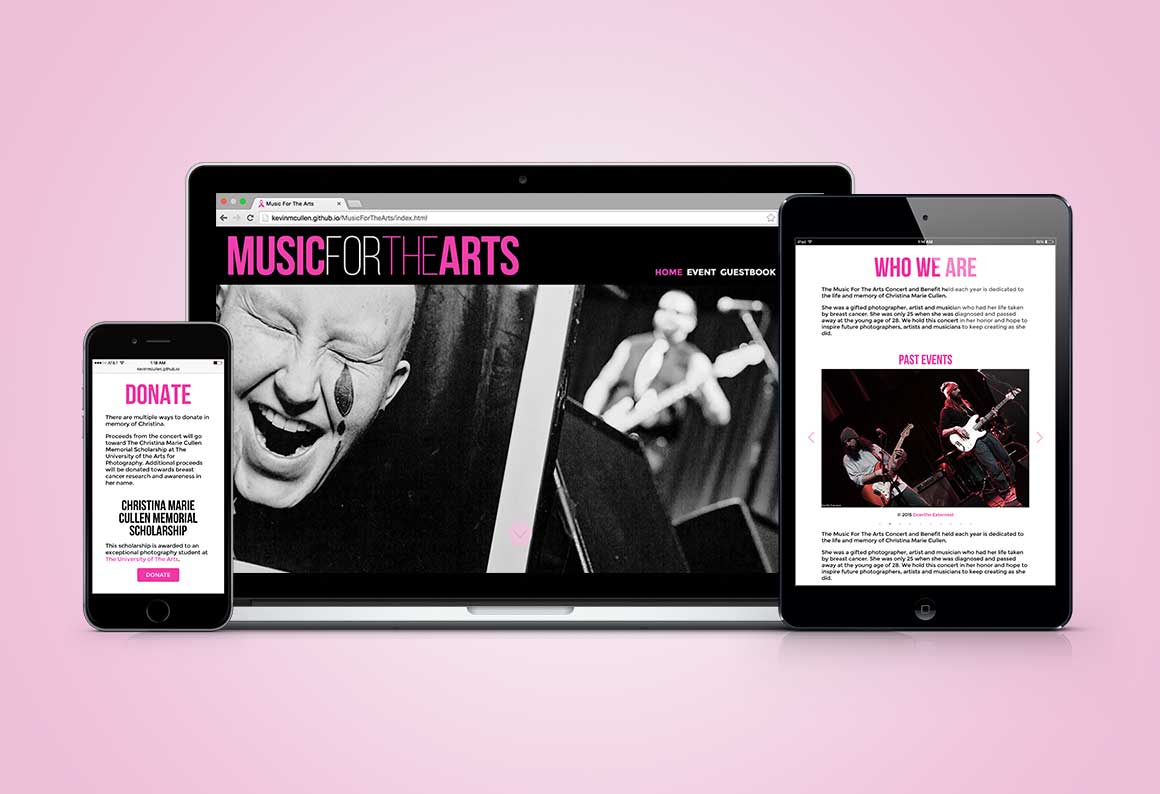
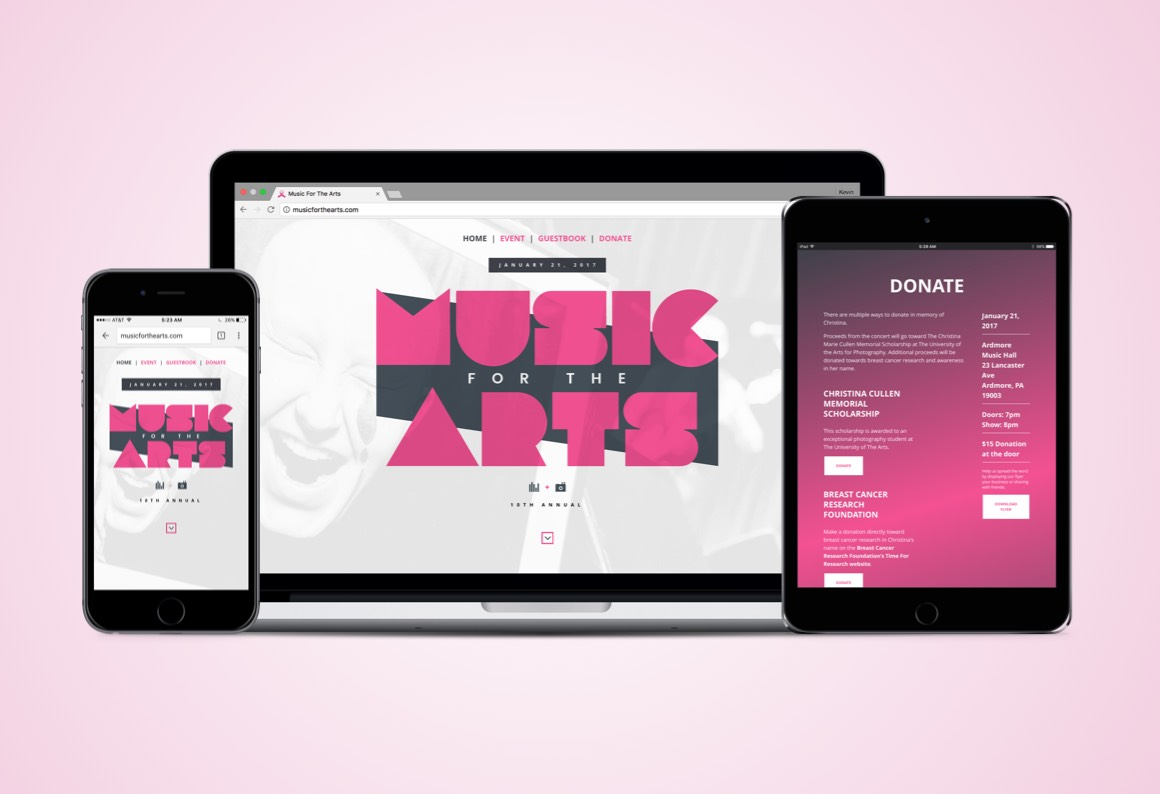
Updates

diff --git a/web.html b/web.html
@@ -48,25 +48,25 @@
         <div class="main-content">
           <div class="work webDesign">
             <div class="webHero MFTA-bg">
-              <a href="http://musicforthearts.com"><img src="images/web/MFTAmockup-2.png"></a>
+              <a href="http://musicforthearts.com"><img src="images/web/mockup_Macbook_MFTA.png"></a>
             </div>
             <section class="container project intro">          
-              <a href="http://musicforthearts.com" target="_blank"><h4>Music For The Arts</h4></a>
+              <a href="http://musicforthearts.com" target="_blank"><h4>Music For The Arts 2017</h4></a>
               <p><a href="http://musicforthearts.com" target="_blank">Music For The Arts</a> is an annual charity event in Philadelphia that raises money for a photography scholarship at The Universiy for the Arts and also benefits breast vancer research through its proceeds.</p>
             </section>
             <section class="container project brief">
               <h5>PROJECT BRIEF</h5>          
-              <p>I was tasked to redesign the website to better showcase the event, including the work of photographers, musicians and artists, and to complete all of the front-end development. The site is fully responsive and provides a modern showcase for musicians and artists, as intended by the event's founder.</p>
+              <p>I updated and re-launch a new version of the website for the 2017 event with the specific goal of making it easier for people to find the relevant information for the event, as well as improve the process making donations. I was wanted to make the site a bit more engaging and lively this year given it's 10th anniversary and its overall mission — sharing and expanding the work of artists.</p>
             </section>
             <section class="container project second">
               <div class="row">
                 <div class="four columns">
                   <label>Mobile-first, responsive design</label>
                   <h6>Music For The Arts is fully responsive on any device</h6>
-                  <p>The website was built using HTML, CSS and Javascript &mdash; including jQuery.  I was responsible for all design and development.</p>
+                  <p>The website was built using HTML, CSS, Sass and Javascript &mdash; including jQuery.  I was responsible for all design and development.</p>
                 </div>
                 <div class="eight columns">
-                  <img src="images/web/brief-MFTAiPhoneMockup.png">
+                  <img src="images/web/mockup_iPad+iPhone_MFTA.png">
                 </div>
               </div>
             </section>
@@ -120,6 +120,30 @@
               <label>Dallas Morning News Interactive</label>
               <a href="http://interactives.dallasnews.com/2015/jenna-owens/" target="_blank"><h4>Jenna Owens Q&amp;A</h4></a>
               <p>Jenna Owens is a rising star and co-host of The Kidd Kraddick Show. I designed and built an interactive for The Dallas Morning News's new feature Q&amp;AP, showcasing a brilliant photoshoot and Q&amp;A that received over 17,000 views in 2 days.</p>
+            </section>
+            
+            <div class="webHero MFTA-bg">
+              <img src="images/web/MFTAmockup-2.png">
+            </div>
+            <section class="container project intro">          
+              <h4>Music For The Arts 2016</h4>
+              <p>Music For The Arts is an annual charity event in Philadelphia that raises money for a photography scholarship at The Universiy for the Arts and also benefits breast vancer research through its proceeds.</p>
+            </section>
+            <section class="container project brief">
+              <h5>PROJECT BRIEF</h5>          
+              <p>I was tasked to redesign the website to better showcase the event, including the work of photographers, musicians and artists, and to complete all of the front-end development. The site is fully responsive and provides a modern showcase for musicians and artists, as intended by the event's founder.</p>
+            </section>
+            <section class="container project second">
+              <div class="row">
+                <div class="four columns">
+                  <label>Mobile-first, responsive design</label>
+                  <h6>Music For The Arts is fully responsive on any device</h6>
+                  <p>The website was built using HTML, CSS and Javascript &mdash; including jQuery.  I was responsible for all design and development.</p>
+                </div>
+                <div class="eight columns">
+                  <img src="images/web/brief-MFTAiPhoneMockup.png">
+                </div>
+              </div>
             </section>
             
 

diff --git a/promo.html b/promo.html
@@ -49,41 +49,40 @@
           <div class="work">
             <div class="container">
               <div class="row">
-                <div class="six columns animated fadeInLeftBig" >
+                <div class="four columns animated fadeInLeftBig" >
                   <a  href="images/promo/thetable1.jpg" class="work-image">      
                   <img src="images/promo/thetable1.jpg"logo.jpg"">
                   <p>Special event flyer for The Table in San Jose, Calif.</p>
                   </a>                                                  
                 </div>   
-                <div class="six columns animated fadeInLeftBig" >
+                <div class="four columns animated fadeInLeftBig" >
                   <a  href="images/promo/thetable2.jpg" class="work-image">      
                   <img src="images/promo/thetable2.jpg"logo.jpg"">
                   <p>Special event flyer for The Table in San Jose, Calif.</p>
                   </a>                                                  
-                </div>                 
-              </div>
-              <div class="row">
-              <div class="six columns animated fadeInLeftBig" >
+                </div>
+                <div class="four columns animated fadeInLeftBig" >
                   <a  href="images/promo/thetable3.jpg" class="work-image">      
                   <img src="images/promo/thetable3.jpg"logo.jpg"">
                   <p>Special event flyer for The Table in San Jose, Calif.</p>
                   </a>                                                  
-                </div>     
-                <div class="six columns animated fadeInRightBig">
+                </div>   
+              </div>
+              <div class="row">
+                
+                <div class="four columns animated fadeInRightBig">
                   <a  href="images/promo/thetable4.jpg" class="work-image">       
                   <img src="images/promo/thetable4.jpg">
                   <p>Flyer announcing new brunch hours at The Table in San Jose, Calif.</p>
                   </a>                                                  
                 </div>
-              </div>
-              <div class="row">
-                <div class="six columns animated fadeInLeftBig" >
+                <div class="four columns animated fadeInLeftBig" >
                   <a  href="images/promo/thetable5.jpg" class="work-image">      
                   <img src="images/promo/thetable5.jpg"logo.jpg"">
                   <p>T-shirt design for a reunion event at Texas Tech University</p>
                   </a>                                                  
                 </div>     
-                <div class="six columns animated fadeInRightBig">
+                <div class="four columns animated fadeInRightBig">
                   <a  href="images/promo/techshirt.png" class="work-image">       
                   <img src="images/promo/techshirt.png">
                   <p>T-shirt design for a reunion event at Texas Tech University</p>
@@ -91,13 +90,13 @@
                 </div>
               </div>
               <div class="row">
-                <div class="six columns animated fadeInLeftBig">
+                <div class="four columns animated fadeInLeftBig">
                   <a  href="images/promo/ALT1.jpg" class="work-image">       
                   <img src="images/promo/ALT1.jpg">
                   <p>Promotional flyer for ALT Recovery Group in Las Cruces, N.M.</p>
                   </a>                                                  
                 </div>
-                <div class="six columns animated fadeInRightBig">
+                <div class="four columns animated fadeInRightBig">
                   <a  href="images/promo/CollegeBaseballHOF.jpg" class="work-image">       
                   <img src="images/promo/CollegeBaseballHOF.jpg">
                   <p>Cover design for the 2015 National College Baseball Hall of Fame Night of Champions yearbook.</p>

diff --git a/logo.html b/logo.html
@@ -55,14 +55,14 @@
                                 <p>Logo design for a podcast</p>
                             </a>                                                  
                         </div>
-                        <!--
+                        
                         <div class="six columns animated fadeInRightBig">
-                            <a  href="" class="work-image">       
-                                <img src="">
-                                <p></p>
+                            <a  href="images/logos/skinnylogo.jpg" class="work-image">       
+                                <img src="images/logos/skinnylogo.jpg">
+                                <p>Logo design for a weight loss blog</p>
                             </a>                                                  
                         </div>
--->
+
                     </div>
                     <div class="row" id="work-nav">
                         <div class="twelve columns animated fadeUpBottomBig">

diff --git a/css/main.css b/css/main.css
@@ -439,7 +439,7 @@ Web Design Page
 
 .webHero img {
   position: relative;
-  max-width: 90%;
+  max-width: 800px;
   margin: 40px auto 10px;
   display: block;
 }
